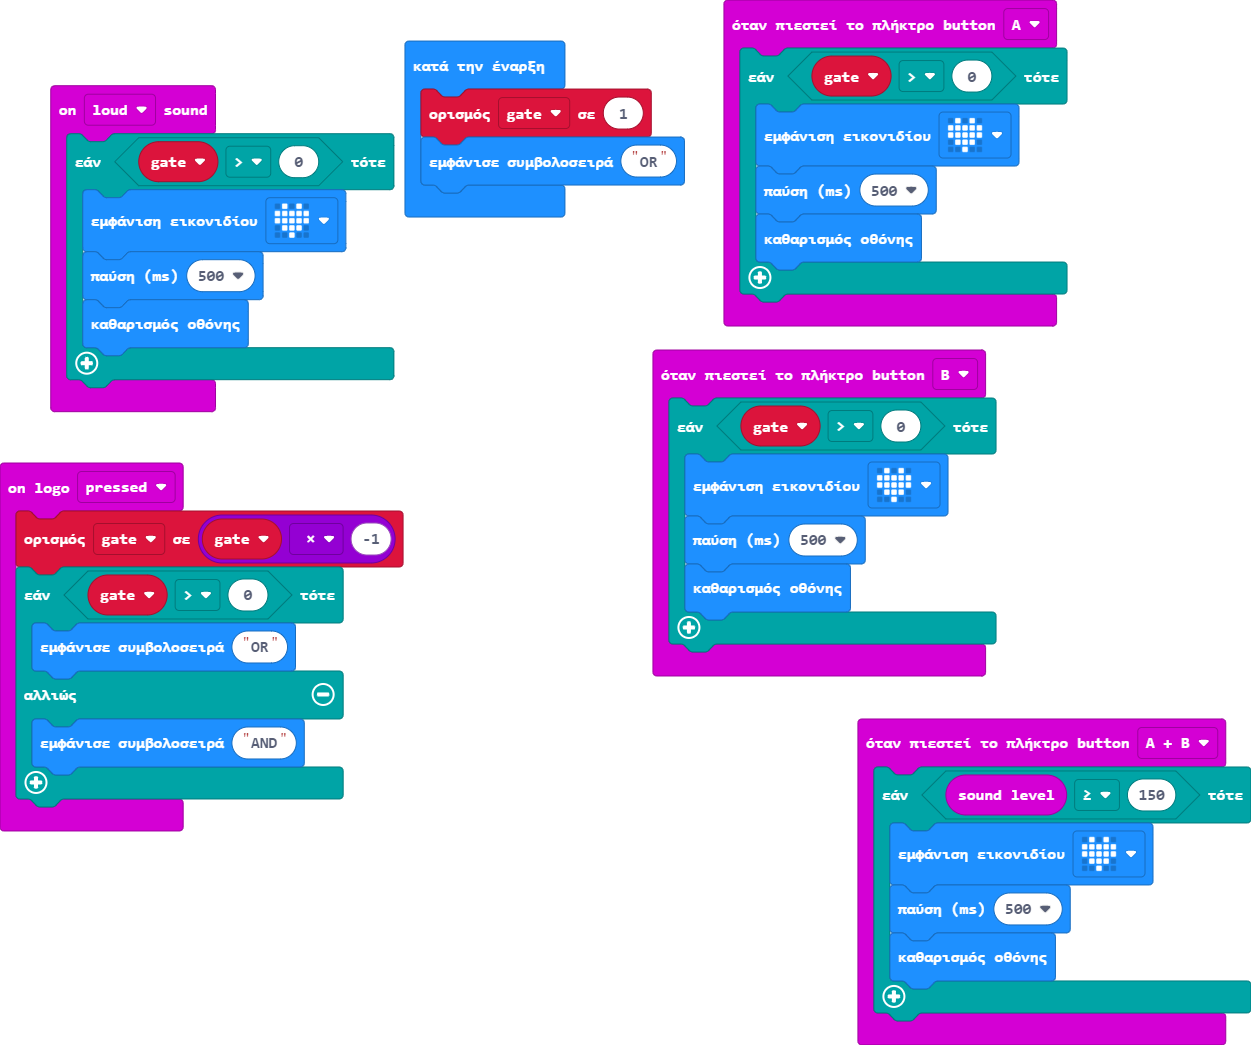
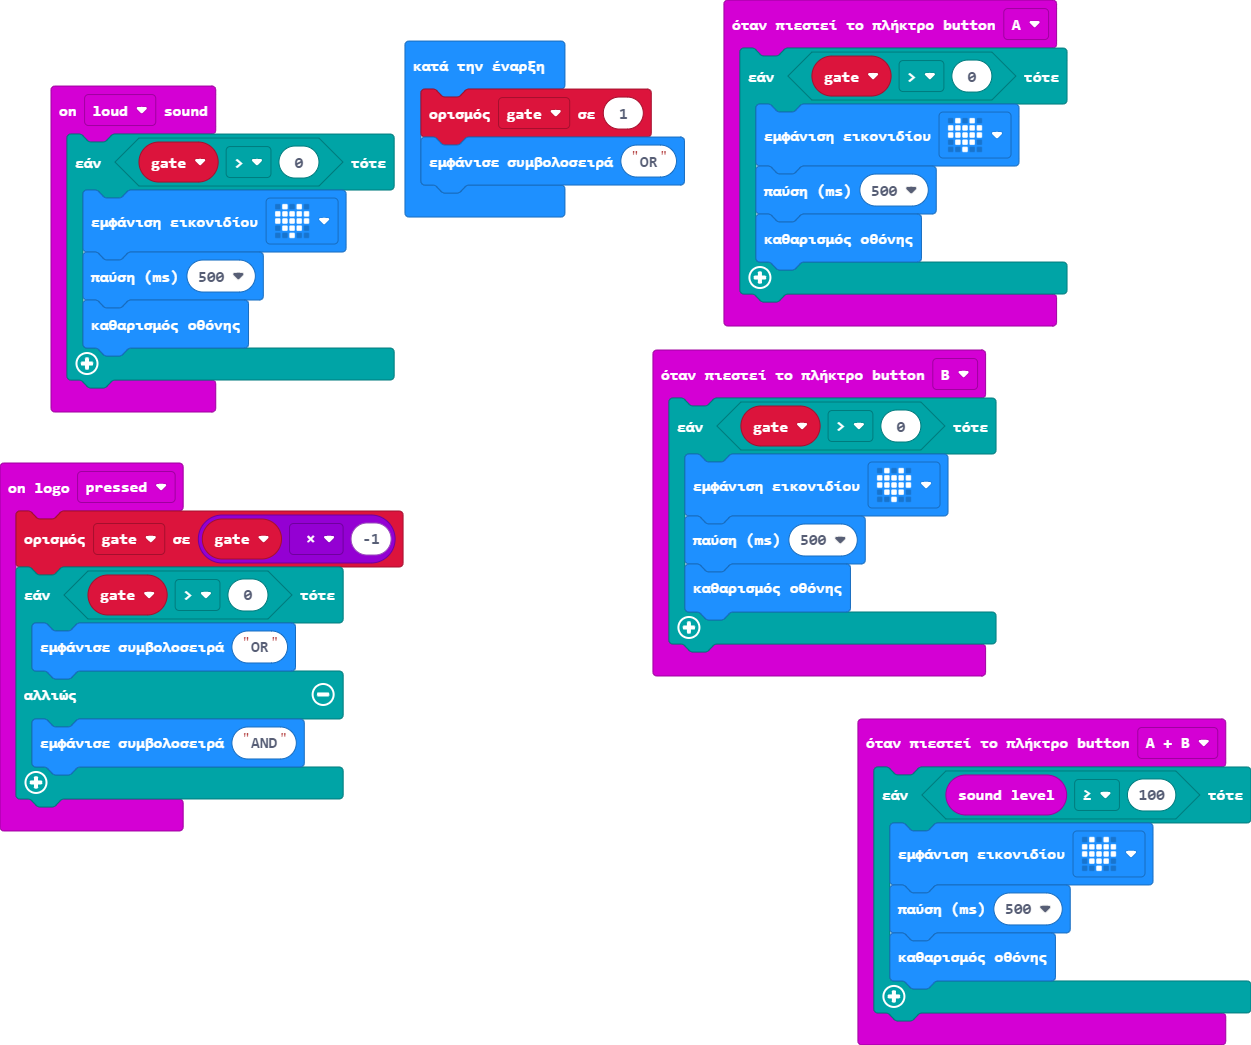
Ενημέρωση main.blocks, main.ts

diff --git a/main.ts b/main.ts
@@ -1,5 +1,5 @@
 input.onButtonPressed(Button.AB, function () {
-    if (input.soundLevel() >= 150) {
+    if (input.soundLevel() >= 100) {
         basic.showIcon(IconNames.Heart)
         basic.pause(500)
         basic.clearScreen()
